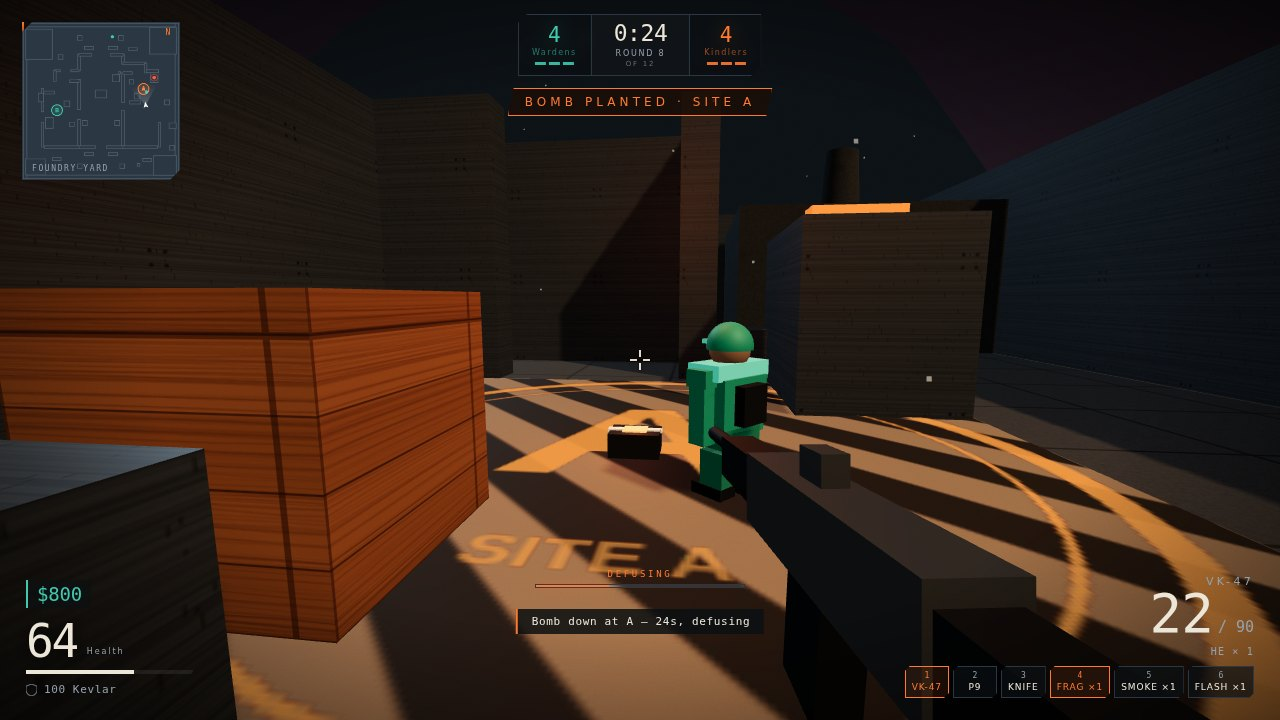
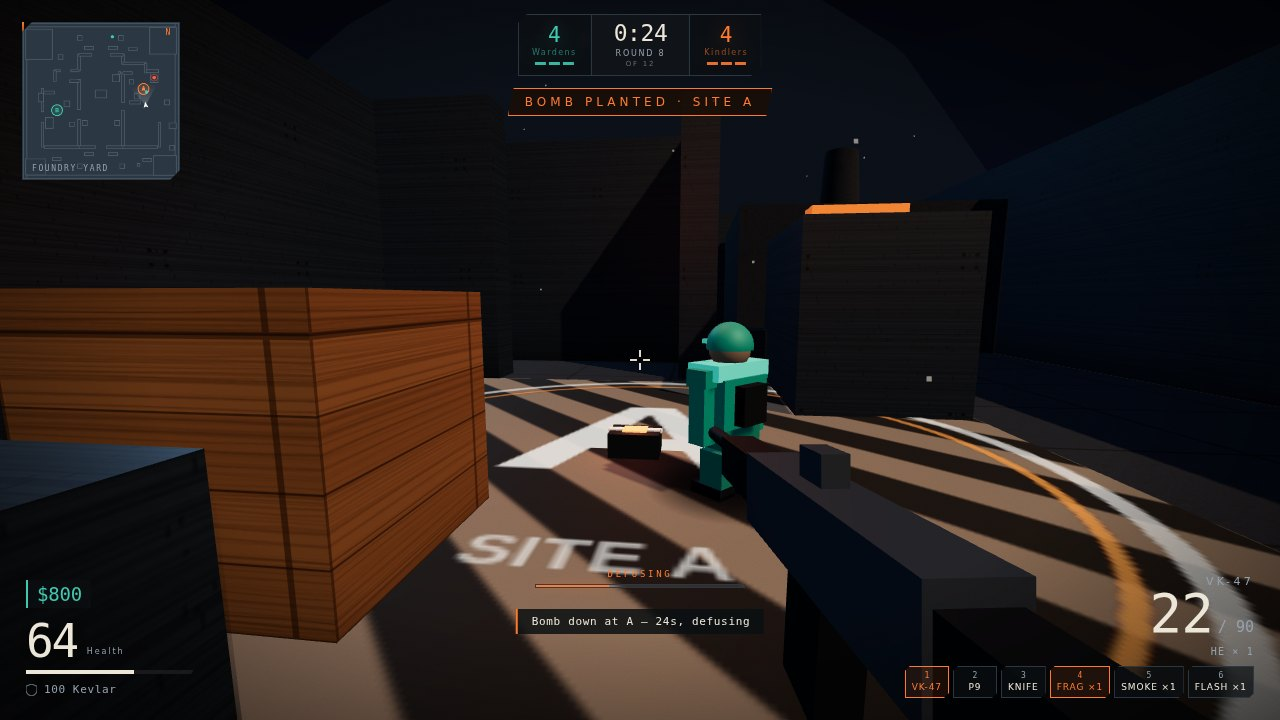
Night palette, contact shadows, sharper shadows, left-rail menu

diff --git a/game/src/world.js b/game/src/world.js
@@ -191,7 +191,7 @@ function createMaterials(textures) {
     wood: new THREE.MeshStandardMaterial({ color: new THREE.Color('#a8875f'), map: textures.wood, roughness: 0.86, metalness: 0.02 }),
     ink: new THREE.MeshStandardMaterial({ color: new THREE.Color(PALETTE.ink), roughness: 0.5, metalness: 0.1 }),
     muted: new THREE.MeshStandardMaterial({ color: new THREE.Color(PALETTE.muted), roughness: 0.7, metalness: 0.15 }),
-    accent: new THREE.MeshStandardMaterial({ color: new THREE.Color(PALETTE.accent), emissive: new THREE.Color(PALETTE.accent), emissiveIntensity: 0.5, roughness: 0.4, metalness: 0.2 }),
+    accent: new THREE.MeshStandardMaterial({ color: new THREE.Color(PALETTE.accent), emissive: new THREE.Color(PALETTE.accent), emissiveIntensity: 0.34, roughness: 0.4, metalness: 0.2 }),
     teal: new THREE.MeshStandardMaterial({ color: new THREE.Color(PALETTE.teal), emissive: new THREE.Color(PALETTE.teal), emissiveIntensity: 0.4, roughness: 0.4, metalness: 0.2 }),
     pad: new THREE.MeshStandardMaterial({ color: new THREE.Color('#8d8377'), map: textures.hazard, roughness: 0.8, metalness: 0.05 }),
   };
@@ -220,28 +220,33 @@ function siteDecal(site) {
   const canvas = document.createElement('canvas');
   canvas.width = canvas.height = 256;
   const ctx = canvas.getContext('2d');
-  ctx.strokeStyle = color;
-  ctx.lineWidth = 7;
+  // A pale ring with one thin accent ring: the site must read as a place, never as a
+  // saturated disc that swallows an orange body standing on it.
+  ctx.strokeStyle = 'rgba(242,235,222,0.85)';
+  ctx.lineWidth = 5;
   ctx.beginPath();
   ctx.arc(128, 128, 112, 0, Math.PI * 2);
   ctx.stroke();
-  ctx.lineWidth = 2;
+  ctx.strokeStyle = color;
+  ctx.globalAlpha = 0.85;
+  ctx.lineWidth = 3;
   ctx.beginPath();
-  ctx.arc(128, 128, 96, 0, Math.PI * 2);
+  ctx.arc(128, 128, 102, 0, Math.PI * 2);
   ctx.stroke();
-  ctx.fillStyle = color;
-  ctx.font = 'bold 104px "Arial Narrow", Arial, sans-serif';
+  ctx.globalAlpha = 1;
+  ctx.fillStyle = '#f6efe3';
+  ctx.font = 'bold 106px "Arial Narrow", Arial, sans-serif';
   ctx.textAlign = 'center';
   ctx.textBaseline = 'middle';
-  ctx.fillText(site.name, 128, 118);
-  ctx.globalAlpha = 0.75;
+  ctx.fillText(site.name, 128, 116);
+  ctx.fillStyle = 'rgba(246,239,227,0.8)';
   ctx.font = '600 15px Arial, sans-serif';
   ctx.fillText(site.label, 128, 186);
   const texture = new THREE.CanvasTexture(canvas);
   texture.colorSpace = THREE.SRGBColorSpace;
   const mesh = new THREE.Mesh(
     new THREE.PlaneGeometry(site.radius * 2, site.radius * 2),
-    new THREE.MeshBasicMaterial({ map: texture, transparent: true, opacity: 0.9, depthWrite: false }),
+    new THREE.MeshBasicMaterial({ map: texture, transparent: true, opacity: 0.92, depthWrite: false }),
   );
   mesh.rotation.x = -Math.PI / 2;
   mesh.position.set(site.x, 0.025, site.z);
@@ -256,6 +261,44 @@ export function createWorld(scene) {
   const materials = createMaterials(createTextures());
   const colliders = [];
   const shootables = [];
+
+  // Fake ambient occlusion: a vertical gradient that darkens the first metre of every
+  // wall. Without a post-processing pass this is what stops walls and crates from
+  // looking pasted onto the floor.
+  const aoTex = (() => {
+    const c = document.createElement('canvas');
+    c.width = 4;
+    c.height = 64;
+    const g = c.getContext('2d');
+    const grad = g.createLinearGradient(0, 64, 0, 0);
+    grad.addColorStop(0, 'rgba(0,0,0,0.55)');
+    grad.addColorStop(0.45, 'rgba(0,0,0,0.18)');
+    grad.addColorStop(1, 'rgba(0,0,0,0)');
+    g.fillStyle = grad;
+    g.fillRect(0, 0, 4, 64);
+    const t = new THREE.CanvasTexture(c);
+    t.colorSpace = THREE.SRGBColorSpace;
+    return t;
+  })();
+  const aoMat = new THREE.MeshBasicMaterial({
+    map: aoTex, transparent: true, depthWrite: false, opacity: 0.9, side: THREE.DoubleSide,
+  });
+
+  function baseAO(w, d, x, z) {
+    const along = w >= d;
+    for (const side of [-1, 1]) {
+      const plane = new THREE.Mesh(new THREE.PlaneGeometry(along ? w : d, 1.05), aoMat);
+      if (along) {
+        plane.position.set(x, 0.52, z + side * (d / 2 + 0.015));
+        plane.rotation.y = side > 0 ? 0 : Math.PI;
+      } else {
+        plane.position.set(x + side * (w / 2 + 0.015), 0.52, z);
+        plane.rotation.y = side > 0 ? Math.PI / 2 : -Math.PI / 2;
+      }
+      plane.renderOrder = 2;
+      group.add(plane);
+    }
+  }
 
   // A box is the map's only primitive: y defaults to resting on the floor, and every
   // box is a collider and a bullet surface unless it says otherwise.
@@ -275,7 +318,9 @@ export function createWorld(scene) {
   }
 
   function wall(w, d, x, z, height = WALL_HEIGHT, material = 'hairline') {
-    return box(w, height, d, x, z, material);
+    const mesh = box(w, height, d, x, z, material);
+    baseAO(w, d, x, z);
+    return mesh;
   }
 
   function crate(x, z, size, height = size, material = 'wood') {
@@ -449,28 +494,29 @@ export function createWorld(scene) {
   // --- light: warm key from the south-east, cold fill, ember pools on site ----
   // A cool sky over a warm key keeps flat boxes reading as separate planes instead of
   // one brown mass, which is the whole trick of a texture-less blockout.
-  scene.add(new THREE.AmbientLight(new THREE.Color('#b9a293'), 1.05));
-  scene.add(new THREE.HemisphereLight(new THREE.Color('#d8b596'), new THREE.Color('#3a342e'), 1.65));
+  scene.add(new THREE.AmbientLight(new THREE.Color('#93a7bd'), 0.95));
+  scene.add(new THREE.HemisphereLight(new THREE.Color('#8fa8c4'), new THREE.Color('#241f1b'), 1.45));
 
-  const key = new THREE.DirectionalLight(new THREE.Color('#ffc38a'), 2.9);
+  const key = new THREE.DirectionalLight(new THREE.Color('#ffd0a2'), 2.7);
   key.position.set(18, 24, 14);
   key.target.position.set(0, 0, 0);
   key.castShadow = true;
-  key.shadow.mapSize.set(1024, 1024);
+  key.shadow.mapSize.set(2048, 2048);
   key.shadow.camera.left = -26;
   key.shadow.camera.right = 26;
   key.shadow.camera.top = 26;
   key.shadow.camera.bottom = -26;
   key.shadow.camera.far = 80;
-  key.shadow.bias = -0.0009;
+  key.shadow.bias = -0.0006;
+  key.shadow.normalBias = 0.02;
   scene.add(key, key.target);
 
-  const fill = new THREE.DirectionalLight(new THREE.Color('#9fc0d4'), 1.15);
+  const fill = new THREE.DirectionalLight(new THREE.Color('#7fa6c8'), 1.05);
   fill.position.set(-16, 14, -18);
   scene.add(fill);
 
   for (const site of SITES) {
-    const lamp = new THREE.PointLight(new THREE.Color(site.name === 'A' ? PALETTE.accent : PALETTE.teal), 16, 15, 2);
+    const lamp = new THREE.PointLight(new THREE.Color(site.name === 'A' ? PALETTE.accent : PALETTE.teal), 9, 20, 2);
     lamp.position.set(site.x, 3.9, site.z);
     scene.add(lamp);
   }

diff --git a/game/index.html b/game/index.html
@@ -283,28 +283,24 @@
   .panel h1 span { color: var(--accent); }
   .panel p { margin: 0 0 22px; color: var(--muted); line-height: 1.6; font-size: 14px; max-width: 46ch; }
 
-  /* ---------- menu composition: editorial split, not a centred card ---------- */
-  #overlay .panel { width: min(880px, 100%); }
-  .menu-grid { display: grid; grid-template-columns: minmax(0, 1fr) 262px; gap: 26px; align-items: start; }
-  .menu-main { min-width: 0; }
-  .menu-side {
-    border-left: 1px solid var(--hairline); padding-left: 24px;
-    display: flex; flex-direction: column; gap: 18px;
+  /* ---------- menu composition: a left rail, the yard stays visible ---------- */
+  #overlay { place-items: center start; padding-left: max(24px, 5.5vw); }
+  #overlay .panel {
+    width: min(540px, 46vw);
+    background: linear-gradient(160deg, #0e1419f7 0%, #0a0f13ef 60%, #0a0f13e2 100%);
   }
-  .vs { display: flex; flex-direction: column; gap: 7px; }
-  .side { padding: 9px 11px; background: #0b0f1280; border: 1px solid var(--hairline); }
-  .side b { display: block; font-family: var(--display); font-size: 15px; letter-spacing: .18em; text-transform: uppercase; }
-  .side span { display: block; font-size: 9px; letter-spacing: .18em; color: var(--muted); text-transform: uppercase; margin-top: 3px; }
-  .side.ct { border-left: 2px solid var(--teal); }
-  .side.ct b { color: var(--teal); }
-  .side.t { border-left: 2px solid var(--accent); }
-  .side.t b { color: var(--accent); }
-  .vs-mark { font-family: var(--mono); font-size: 10px; letter-spacing: .3em; color: var(--accent); text-align: center; text-transform: uppercase; }
-  .meta { display: grid; gap: 7px; }
-  .meta div { display: flex; justify-content: space-between; gap: 10px; border-bottom: 1px solid #ffffff0f; padding-bottom: 5px; }
-  .meta span { font-size: 8px; letter-spacing: .22em; color: var(--muted); text-transform: uppercase; }
-  .meta b { font-family: var(--mono); font-size: 10px; font-weight: 400; color: var(--ink); letter-spacing: .04em; }
-  .menu-main .keys { margin-top: 20px; }
+  #overlay .panel h1 { font-size: 46px; }
+  #overlay .panel p { max-width: 40ch; margin-bottom: 16px; }
+  .teams { display: flex; align-items: center; gap: 10px; margin: 0 0 18px; }
+  .teams .side { flex: 1; padding: 7px 10px; border-left: 2px solid var(--hairline); background: #0b0f1266; }
+  .teams .side b { display: block; font-family: var(--display); font-size: 13px; letter-spacing: .16em; text-transform: uppercase; }
+  .teams .side i { display: block; font-style: normal; font-size: 8px; letter-spacing: .18em; color: var(--muted); text-transform: uppercase; margin-top: 2px; }
+  .teams .side.ct { border-color: var(--teal); }
+  .teams .side.ct b { color: var(--teal); }
+  .teams .side.t { border-color: var(--accent); }
+  .teams .side.t b { color: var(--accent); }
+  .teams > b { font-family: var(--mono); font-size: 9px; letter-spacing: .12em; color: var(--muted); }
+  .meta-line { margin: 14px 0 0; font-family: var(--mono); font-size: 8.5px; letter-spacing: .18em; color: var(--muted); text-transform: uppercase; }
 
   .btn {
     position: relative; overflow: hidden;
@@ -454,38 +450,27 @@
     <div class="kicker"><svg width="13" height="14" viewBox="0 0 13 14" fill="none"><path d="M6.5 0l1.6 3.9 4.1.3-3.1 2.7.95 4.1L6.5 8.9 3.05 11l.95-4.1L.9 4.2l4.1-.3L6.5 0z" fill="#ff7a2f"/></svg>Operation 07 · Foundry Yard</div>
     <h1 id="overlay-title">Ember<br><span>Foundry</span></h1>
     <p id="overlay-copy">Two teams. Short rounds. One bomb. Buy at the bell, take a site, hold the angle — accuracy beats speed.</p>
-    <div class="menu-grid">
-      <div class="menu-main">
-        <button id="play" class="btn" type="button">Deploy</button>
-        <ul class="keys">
-          <li><kbd>WASD</kbd> Move</li>
-          <li><kbd>Mouse</kbd> Look</li>
-          <li><kbd>LMB</kbd> Fire</li>
-          <li><kbd>R</kbd> Reload</li>
-          <li><kbd>Ctrl</kbd> Crouch</li>
-          <li><kbd>Space</kbd> Jump</li>
-          <li><kbd>B</kbd> Buy menu</li>
-          <li><kbd>E</kbd> Plant / defuse</li>
-          <li><kbd>G</kbd> Grenade</li>
-          <li><kbd>1 2 3</kbd> Weapon</li>
-          <li><kbd>Tab</kbd> Scoreboard</li>
-          <li><kbd>Esc</kbd> Pause</li>
-        </ul>
-      </div>
-      <aside class="menu-side">
-        <div class="vs">
-          <div class="side ct"><b>Wardens</b><span>Defuse · hold</span></div>
-          <div class="vs-mark">vs</div>
-          <div class="side t"><b>Kindlers</b><span>Plant · push</span></div>
-        </div>
-        <div class="meta">
-          <div><span>Map</span><b>Foundry Yard</b></div>
-          <div><span>Format</span><b>Best of 12</b></div>
-          <div><span>Operators</span><b>3 v 3</b></div>
-          <div><span>Objective</span><b>Ignite · Defuse</b></div>
-        </div>
-      </aside>
+    <div class="teams">
+      <span class="side ct"><b>Wardens</b><i>defuse · hold</i></span>
+      <b>vs</b>
+      <span class="side t"><b>Kindlers</b><i>plant · push</i></span>
     </div>
+    <button id="play" class="btn" type="button">Deploy</button>
+    <div class="meta-line">Foundry Yard · best of 12 · 3 v 3 · ignite / defuse</div>
+    <ul class="keys">
+      <li><kbd>WASD</kbd> Move</li>
+      <li><kbd>Mouse</kbd> Look</li>
+      <li><kbd>LMB</kbd> Fire</li>
+      <li><kbd>R</kbd> Reload</li>
+      <li><kbd>Ctrl</kbd> Crouch</li>
+      <li><kbd>Space</kbd> Jump</li>
+      <li><kbd>B</kbd> Buy menu</li>
+      <li><kbd>E</kbd> Plant / defuse</li>
+      <li><kbd>G</kbd> Grenade</li>
+      <li><kbd>4</kbd> Utility</li>
+      <li><kbd>Tab</kbd> Scoreboard</li>
+      <li><kbd>Esc</kbd> Pause</li>
+    </ul>
   </section>
 </div>
 

diff --git a/game/src/main.js b/game/src/main.js
@@ -54,7 +54,7 @@ document.getElementById('game').appendChild(renderer.domElement);
 
 const scene = new THREE.Scene();
 scene.background = new THREE.Color(PALETTE.canvas);
-scene.fog = new THREE.Fog(new THREE.Color('#6b5a58'), 26, 92);
+scene.fog = new THREE.Fog(new THREE.Color('#26313f'), 24, 88);
 
 // A dusk dome instead of a flat clear colour: the horizon burns, the zenith cools, and
 // every silhouette in the yard gains a rim. One draw call, no texture, no light cost.
@@ -66,9 +66,9 @@ scene.fog = new THREE.Fog(new THREE.Color('#6b5a58'), 26, 92);
       depthWrite: false,
       fog: false,
       uniforms: {
-        zenith: { value: new THREE.Color('#16233b') },
-        haze: { value: new THREE.Color('#7c6370') },
-        ember: { value: new THREE.Color('#e8975a') },
+        zenith: { value: new THREE.Color('#0b1730') },
+        haze: { value: new THREE.Color('#33405c') },
+        ember: { value: new THREE.Color('#b9653c') },
       },
       vertexShader: 'varying vec3 vDir; void main() { vDir = position; gl_Position = projectionMatrix * modelViewMatrix * vec4(position, 1.0); }',
       fragmentShader: [
@@ -343,6 +343,13 @@ function applyShot(shooter, def, spread) {
   return killed ? 3 : 2;
 }
 
+// A muzzle flash that actually lights the world: one point light parented to the camera,
+// driven by a timestamp so it decays with time and not with frame rate.
+const muzzleLight = new THREE.PointLight(new THREE.Color('#ffc98a'), 0, 9, 2);
+muzzleLight.position.set(0.24, -0.14, -0.9);
+camera.add(muzzleLight);
+let muzzleAt = -9;
+
 function playerShoot() {
   if (!playerBody.alive || !weaponReady(playerWeapon)) return false;
   if (!takeRound(playerWeapon)) {
@@ -356,6 +363,7 @@ function playerShoot() {
   playerBody.pitch = Math.min(1.45, playerBody.pitch + def.recoilPitch);
   playerBody.yaw += (random() * 2 - 1) * def.recoilYaw;
   audio.shot(def.sound);
+  muzzleAt = elapsed;
   if (result >= 2) hud.hitMarker(result === 3);
   pushSound(playerBody.position.x, playerBody.position.z, 'ct', 44);
   return true;
@@ -843,6 +851,41 @@ const ctx = {
   },
 };
 
+// --- contact shadows ---------------------------------------------------------
+const CONTACT_TEX = (() => {
+  const c = document.createElement('canvas');
+  c.width = c.height = 128;
+  const g = c.getContext('2d');
+  const grad = g.createRadialGradient(64, 64, 6, 64, 64, 62);
+  grad.addColorStop(0, 'rgba(0,0,0,0.85)');
+  grad.addColorStop(0.55, 'rgba(0,0,0,0.45)');
+  grad.addColorStop(1, 'rgba(0,0,0,0)');
+  g.fillStyle = grad;
+  g.fillRect(0, 0, 128, 128);
+  const t = new THREE.CanvasTexture(c);
+  t.colorSpace = THREE.SRGBColorSpace;
+  return t;
+})();
+const CONTACT_GEO = new THREE.PlaneGeometry(1, 1);
+const contactShadows = new Map();
+
+function contactShadow(id) {
+  let mesh = contactShadows.get(id);
+  if (!mesh) {
+    mesh = new THREE.Mesh(CONTACT_GEO, new THREE.MeshBasicMaterial({
+      map: CONTACT_TEX,
+      transparent: true,
+      depthWrite: false,
+      opacity: 1,
+    }));
+    mesh.rotation.x = -Math.PI / 2;
+    mesh.renderOrder = 1;
+    scene.add(mesh);
+    contactShadows.set(id, mesh);
+  }
+  return mesh;
+}
+
 function syncRigs() {
   for (const body of bodies) {
     const rigged = rigs.get(body.id);
@@ -867,6 +910,16 @@ function syncRigs() {
     rigged.hitbox.group.position.copy(body.position);
     rigged.hitbox.group.rotation.y = body.yaw;
     rigged.hitbox.group.visible = body.alive;
+  }
+  // Contact shadows: one cheap sprite per body, pinned to the floor. Without them a
+  // soldier is a floating box, which is the fastest way to read as a greybox.
+  for (const body of bodies) {
+    const sh = contactShadow(body.id);
+    sh.visible = body.alive && body.id !== playerBody.id;
+    if (!sh.visible) continue;
+    sh.position.set(body.position.x, 0.04, body.position.z);
+    const s = body.crouching ? 1.35 : 1.75;
+    sh.scale.set(s, s, 1);
   }
 }
 
@@ -1060,6 +1113,7 @@ function render() {
   updateBombProp();
   dust.rotation.y = elapsed * 0.008;
   dust.position.y = Math.sin(elapsed * 0.18) * 0.08;
+  muzzleLight.intensity = Math.max(0, 1 - (elapsed - muzzleAt) / 0.07) * 4;
   if (blastAt > elapsed - 0.32) {
     const t = (elapsed - blastAt) / 0.32;
     blastMesh.visible = true;
@@ -1212,6 +1266,7 @@ const SHOT_SETUP = {
     inventory.rifle = createWeaponState(WEAPONS.rifle);
     inventory.rifle.mag = 17;
     inventory.rifle.flash = 0.05;
+    muzzleAt = elapsed - 0.01;
     playerWeapon = inventory.rifle;
     rig.show('rifle');
     grenades = 1;

diff --git a/game/src/palette.js b/game/src/palette.js
@@ -2,10 +2,10 @@
 // world.js tints every material from these values, so the mood lives here and not in
 // a hundred literal colours scattered through the map.
 export const PALETTE = {
-  canvas: '#0d1216',
-  floor: '#414c57',
-  surface: '#333e48',
-  hairline: '#4a5763',
+  canvas: '#0b1018',
+  floor: '#2b3540',
+  surface: '#28323c',
+  hairline: '#39454f',
   ink: '#ece6d8',
   muted: '#9dabb7',
   accent: '#ff7a2f',
